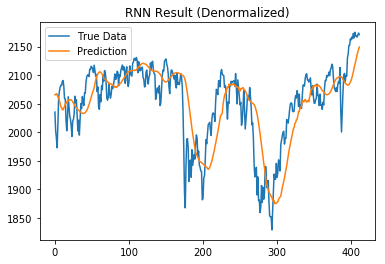
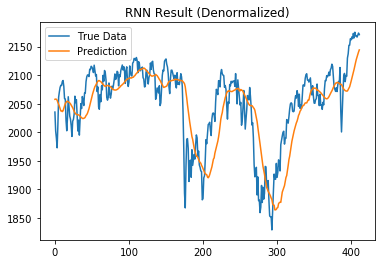
correct number of nodes in hidden layers

Changed region(s): [[0.1247, 0.2424, 0.7792, 0.7879], [0.8104, 0.1818, 0.9351, 0.3939], [0.7792, 0.3636, 0.8104, 0.4242]]

diff --git a/stock_market_prediction/rnn.py b/stock_market_prediction/rnn.py
@@ -36,7 +36,7 @@ model = Sequential()
 
 model.add(LSTM(
     input_dim=1,
-    output_dim=50,
+    output_dim=20,
     return_sequences=True))
 
 model.add(LSTM(
@@ -98,6 +98,14 @@ plt.plot(predictions_org, label='Prediction')
 plt.legend()
 plt.title("RNN Result (Denormalized)")
 plt.show()
+
+#fig = plt.figure(facecolor='white')
+#ax = fig.add_subplot(111) #111- 1x1 grid, first subplot
+#ax.plot(y_test, label='True Data')
+#plt.plot(predictions, label='Prediction')
+#plt.legend()
+#plt.title("RNN Result (Normalized)")
+#plt.show()
 
 from sklearn.metrics import mean_squared_error
 mse = mean_squared_error(predictions_org, y_test_org.astype(float).tolist())
